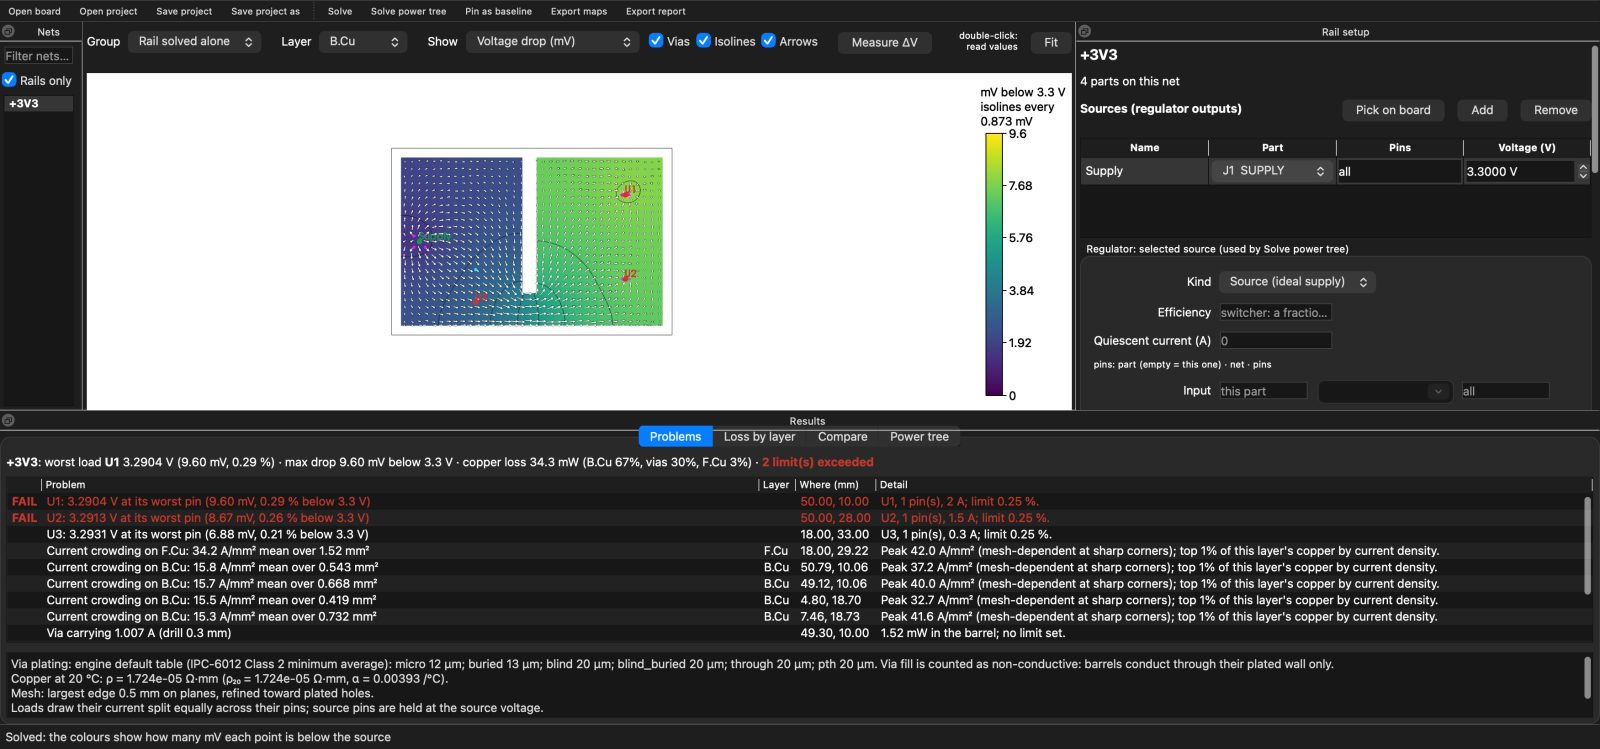
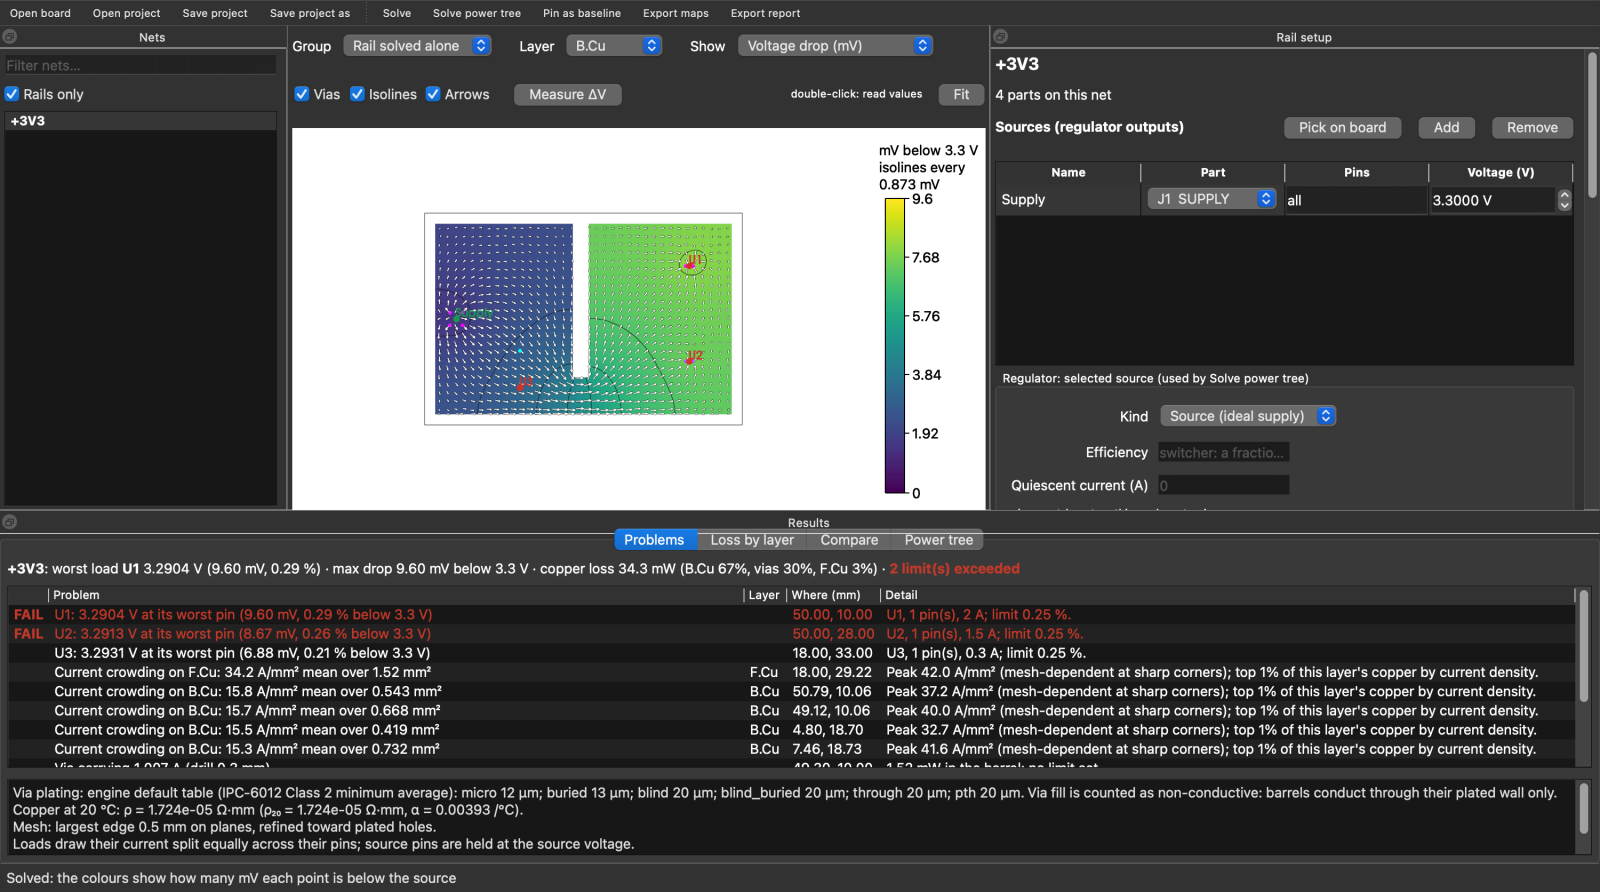
docs: README status for the copper-thickness editor and the narrower window; screenshots regenerated

diff --git a/README.md b/README.md
@@ -325,7 +325,8 @@ warning lists the differences. Set `override_board_fields: true` on that rail to
 | Verdicts list what a set limit could not judge (`not_judged`, with the reason), in JSON, CLI text, report and CI summary | ✅ |
 | Power-tree verdicts: a group passes only when everything its limits apply to was judged. Items that cannot be judged (disconnected, behind a regulator out of regulation, not converged, 0 V nominal, a limit on a net the tree does not solve) give "not judged" and are named | ✅ |
 | Regulator inputs judged as loads on the rail feeding them (across input and ground pins); limits per net, a net without its own limit takes its group's main rail's; copper judged against the strictest limit in the group, and a fail names whose limit it used | ✅ |
-| What-if copper thickness per layer (`copper_thickness_mm`, optional, at most 1 mm per layer) | ✅ (project file and MCP; an app field comes next) |
+| What-if copper thickness per layer (`copper_thickness_mm`, optional, at most 1 mm per layer) | ✅ (project file, MCP, and the app: Solve settings → Copper thickness → Edit…; empty = board file) |
+| The window fits a 1440 px screen (map bar on two rows) | ✅ |
 | Board temperature (electro-thermal) | 🔄 next |
 | AC impedance with decoupling capacitors, DC-DC ripple, tolerance budget | ⏳ (KiPI's engine has them) |
 | Standalone `.app` / `.exe` that needs no uv | ⏳ later |
